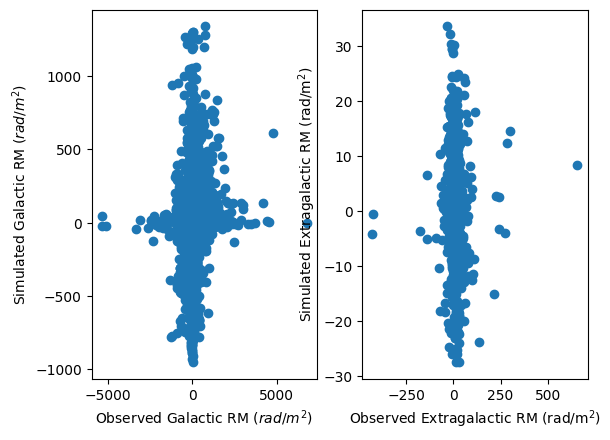
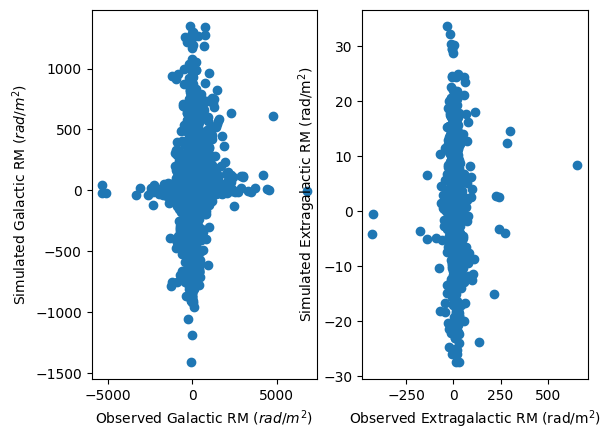
Random changes in RM values implemented. It needs to be tested.

diff --git a/settings_maker.py b/settings_maker.py
@@ -97,7 +97,7 @@ class Settings_Maker():
 
 
         #to use when inference on the noise factors is necessary
-        if self.params['params_mock_cat.maker_params.npi']==True:
+        if self.params['params_mock_cat.maker_params.npi.use_npi']==True:
         # Possible all sky variation of alpha, requires pygedm package 
             alpha = 2.5
             log_ymw = np.log(Egf.load_ymw_sky('ymw16', 'mc', params))
@@ -105,13 +105,14 @@ class Settings_Maker():
             log_ymw *= 5
             alpha = implicit_response(ift.Field(ift.makeDomain(implicit_response.domain), log_ymw)).val
 
-            implicit_noise = Egf.SimpleVariableNoise(gal_data_domain, alpha=alpha, q='mode', noise_cov=gal_stddev**2).get_model()
+            implicit_noise = Egf.SimpleVariableNoise(gal_data_domain, alpha=alpha, q='mode', noise_cov=gal_stddev**2)
+            implicit_noise_model=implicit_noise.get_model()
         # build the full model and connect it to the likelihood
 
             implicit_model = implicit_response @ galactic_model.get_model()
             residual = ift.Adder(-gal_rm) @ implicit_model
-            new_dom = ift.MultiDomain.make({'icov': implicit_noise.target, 'residual': residual.target})
-            n_res = ift.FieldAdapter(new_dom, 'icov')(implicit_noise.reciprocal()) + \
+            new_dom = ift.MultiDomain.make({'icov': implicit_noise_model.target, 'residual': residual.target})
+            n_res = ift.FieldAdapter(new_dom, 'icov')(implicit_noise_model.reciprocal()) + \
                 ift.FieldAdapter(new_dom, 'residual')(residual)
             implicit_likelihood = ift.VariableCovarianceGaussianEnergy(domain=gal_data_domain, residual_key='residual',
                                                                 inverse_covariance_key='icov',
@@ -120,6 +121,8 @@ class Settings_Maker():
         else:
         #to use with perfect noise knowledge
             implicit_noise = Egf.StaticNoise(gal_data_domain, gal_stddev**2, True)
+            implicit_noise_model = None
+
 
         # build the full model and connect it to the likelihood
 
@@ -156,7 +159,8 @@ class Settings_Maker():
             'sky_maps': sky_models,
             'power_spectra': power_models,
             'scatter_pairs': None,
-            'plotting_kwargs': plotting_kwargs
+            'plotting_kwargs': plotting_kwargs,
+            'eta': implicit_noise.get_components()['eta'] if implicit_noise_model != None else None
         }
 
         return {'minimizer_params': minimizer_params, 'ecomponents': ecomponents}

diff --git a/catalog_maker.py b/catalog_maker.py
@@ -10,6 +10,7 @@ import matplotlib
 from src.helper_functions.parameters_maker import Parameters_maker
 matplotlib.use('TkAgg')
 import utilities as U
+import random
 
 class CatalogMaker():
 
@@ -118,6 +119,33 @@ class CatalogMaker():
 
         rm_data=np.array(eg_gal_data.val)
 
+
+        #modification of RM values to mimic wrong estimates present in the data and difficult to predict
+        delta_rm_list=[]
+        if self.params['params_mock_cat.maker_params.npi.use_npi']==True:
+            b_indices=np.where(np.isnan(data['z_best']))[0]
+            np.random.seed(seed=self.params['params_mock_cat.maker_params.seed'])
+            npi_indices=np.unique(np.random.choice(b_indices, size=self.params['params_mock_cat.maker_params.npi.npi_los']))
+            print(npi_indices)
+            print(npi_indices.size)
+            print(ltheta-lerm)
+            for item in b_indices:
+                if item in npi_indices:
+                    mu_nvss=self.params['params_mock_cat.maker_params.npi.mu_nvss']
+                    sigma_nvss=self.params['params_mock_cat.maker_params.npi.sigma_nvss']
+                    delta_rm=np.random.normal(mu_nvss, sigma_nvss)
+                    if random.choice('+-')=='-':
+                        rm_data[item] -= delta_rm
+                        delta_rm_list.append(-delta_rm)
+                    else:
+                        rm_data[item] += delta_rm
+                        delta_rm_list.append(delta_rm)
+            
+            delta_rm_array=np.array(delta_rm_list)
+            plt.scatter(eg_b[npi_indices], delta_rm_array)
+            plt.savefig('Delta_rm.png', bbox_inches='tight')
+
+
         #creating mock sigma gal
         #NVSS cat 2009ApJ...702.1230T
         #LoTSS cat "LoTSS DR2 (O'Sullivan et al. 2022) "
@@ -144,6 +172,7 @@ class CatalogMaker():
 
 
 
+
         if self.params['params_mock_cat.maker_params.eg_on']==True:
             np.random.seed(seed=self.params['params_mock_cat.maker_params.seed'])
             rand_rm=np.random.normal(0.0, 1.0,len(e_rm))
@@ -157,9 +186,11 @@ class CatalogMaker():
         #Print noise
         print('Gal noise', N_gal.draw_sample().val.std())
         print('Egal noise', N_eg.draw_sample().val.std())
+        
 
 
 
+        
         #Plot 1
         plot = ift.Plot()
         plot.add(eg_projector.adjoint(eg_gal_data), vmin=-250, vmax=250)

diff --git a/src/helper_functions/minimizer.py b/src/helper_functions/minimizer.py
@@ -2,8 +2,8 @@ import nifty8 as ift
 from .logger import logger, Format
 from posterior_plotter import Posterior_Plotter
 from .minimization_helpers import get_controller, get_n_samples
-from .plot.plot import sky_map_plotting, power_plotting, energy_plotting, scatter_plotting_posterior
-import libs as Egf
+from .plot.plot import sky_map_plotting, power_plotting, energy_plotting, scatter_plotting_posterior, eta_plotting
+#import libs as Egf
 
 class Minimizer():
     def __init__(self, minimizer_params, ecomponents, params):
@@ -37,7 +37,9 @@ class Minimizer():
             
             energy_plotting(energy_dict, minimizer_params['plot_path'])
             ident = str(i)
-            
+            if self.params['params_mock_cat.maker_params.npi']==True:
+                eta_plotting('noise_excitations',[s for s in latest_sample_list.iterator()], minimizer_params['plot_path'], string=ident)
+
             if minimizer_params['sky_maps'] is not None:
                 for sky_name, sky in minimizer_params['sky_maps'].items():
                     sky_map_plotting(sky, [s for s in latest_sample_list.iterator()], sky_name, minimizer_params['plot_path'], string=ident,

diff --git a/src/helper_functions/plot/plot.py b/src/helper_functions/plot/plot.py
@@ -217,3 +217,21 @@ def _density_estimation(m1, m2, xmin, xmax, ymin, ymax, nbins):
     z = np.reshape(kernel(positions).T, x.shape)
     return x, y, z
 
+ 
+def eta_plotting(name, plot_obj, path, string=None, **kwargs):
+    if string is None:
+        string = ''
+    eta_path = path + 'eta/'+ '/'
+    if not os.path.exists(eta_path):
+        os.makedirs(eta_path)
+    plot = ift.Plot()
+    if isinstance(plot_obj, list):
+        sc = ift.StatCalculator()
+        for sample in plot_obj:
+            sc.add(sample[name])
+        m = sc.mean
+        print(m.val)
+    else:
+        m =plot_obj
+    plot.add(m, title="mean", **kwargs)
+    plot.output(name=eta_path + name +'_' + string + ".png")

diff --git a/src/model_library/noise_models/simple_variable_noise.py b/src/model_library/noise_models/simple_variable_noise.py
@@ -32,4 +32,4 @@ class SimpleVariableNoise(Model):
         eta = InverseGammaOperator(self.target_domain, self.alpha, self.q) @ excitations
 
         self._model = self.noise_cov @ eta
-        self._components = {'eta': eta}
+        self._components.update({'eta': eta})
